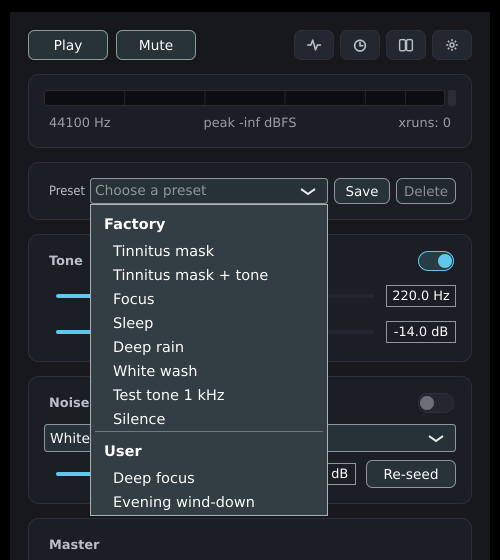
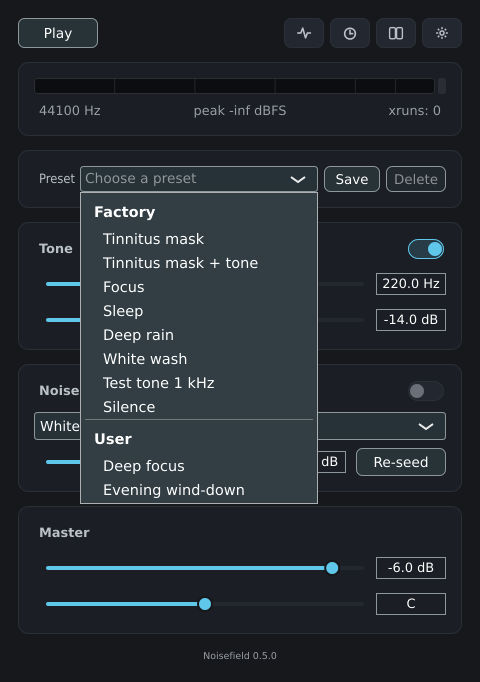
docs: retake preset-menu.png without the old Mute button
Simulated the preset combo box's dropdown click via python-xlib/XTest
(no xdotool available in the sandbox) against the app running under
Xvfb, with two throwaway .nfp files to reproduce the User presets
section. Resolves the pending note left after the M5 UI polish round.

diff --git a/docs/backlog.md b/docs/backlog.md
@@ -177,10 +177,12 @@ balance control.
   `noisefield::buildInfoString()` (`src/core/BuildInfo.h`, currently unused outside tests).
   Bump `kBaseHeight` in `MainComponent.cpp` to make room.
 
-**Pending:** `docs/images/preset-menu.png` still shows the old **Mute** button (removed in
-NF-100) in the background — regenerating it needs the preset combo box's dropdown open, which
-needs a simulated click; no UI-automation tool (e.g. `xdotool`) was available in the sandbox
-this milestone was built in. Retake it on a real machine.
+**Resolved (2026-09-18):** `docs/images/preset-menu.png` was retaken. It needed the preset
+combo box's dropdown open (a real click), and no `xdotool`-like tool was available in the
+sandbox — worked around with a `python-xlib` script synthesizing an `XTestFakeButtonEvent`
+click at the combo's known layout coordinates (via `pip install --user python-xlib` in a
+throwaway venv, no root needed), against the app running under `Xvfb`. Two throwaway
+`.nfp` files in a scratch `HOME` reproduced the "User" presets section for the shot.
 
 ---
 
